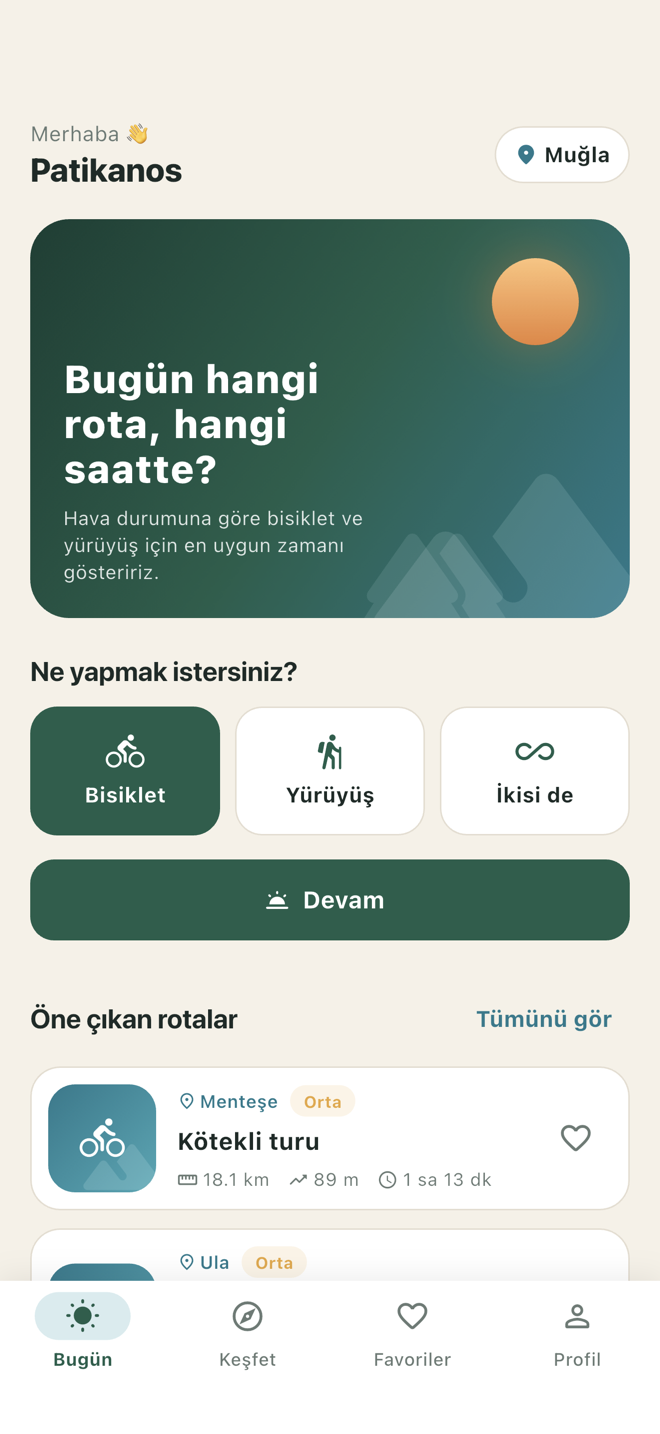
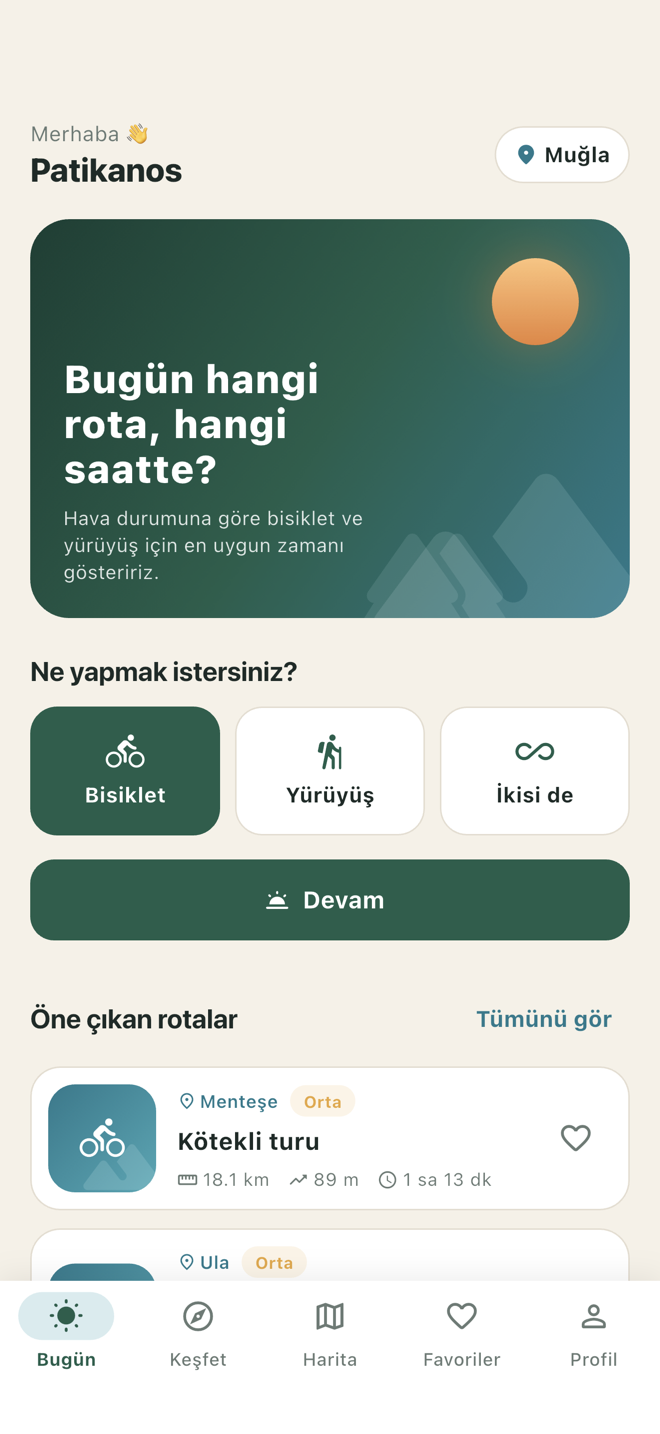
Document map tab and add map screenshot

diff --git a/integration_test/screenshots_test.dart b/integration_test/screenshots_test.dart
@@ -62,5 +62,12 @@ void main() {
     await tester.tap(find.text('Profil'));
     await tester.pumpAndSettle();
     await shot('07_profil');
+
+    await tester.tap(find.text('Harita'));
+    // Harita parçaları OpenStreetMap'ten iniyor; birkaç saniye bekle.
+    for (var i = 0; i < 20; i++) {
+      await tester.pump(const Duration(milliseconds: 250));
+    }
+    await shot('08_harita');
   });
 }

diff --git a/docs/navigation.md b/docs/navigation.md
@@ -1,15 +1,16 @@
 # Navigation Structure
 
-This document shows which screens Patikanos has and how the user moves between them. It reflects the code on `main` after PR #44; screens that are planned but not built yet are drawn with dashed borders.
+This document shows which screens Patikanos has and how the user moves between them. It reflects the code on `main` after PR #44 and #45; screens that are planned but not built yet are drawn with dashed borders.
 
 ## Tabs
 
-The app opens on `HomeScreen` (`lib/screens/home_screen.dart`), which holds a bottom navigation bar with four tabs. Tabs keep their state when you switch between them (`IndexedStack`).
+The app opens on `HomeScreen` (`lib/screens/home_screen.dart`), which holds a bottom navigation bar with five tabs. Tabs keep their state when you switch between them (`IndexedStack`).
 
 | Tab | Screen | File | Purpose |
 |---|---|---|---|
 | Bugün | `TodayScreen` | `lib/screens/today_screen.dart` | Pick an activity, see today's best time, featured routes |
 | Keşfet | `ExploreScreen` | `lib/screens/explore_screen.dart` | Search and filter all routes |
+| Harita | `MapScreen` | `lib/screens/map_screen.dart` | Start points of all routes on an OpenStreetMap map |
 | Favoriler | `FavoritesScreen` | `lib/screens/favorites_screen.dart` | Routes the user marked with ♥ |
 | Profil | `ProfileScreen` | `lib/screens/profile_screen.dart` | User info, preferences, settings |
 
@@ -23,6 +24,7 @@ flowchart TD
         direction LR
         Today["Bugün<br/>TodayScreen"]
         Explore["Keşfet<br/>ExploreScreen"]
+        Map["Harita<br/>MapScreen"]
         Favs["Favoriler<br/>FavoritesScreen"]
         Profile["Profil<br/>ProfileScreen"]
     end
@@ -41,8 +43,8 @@ flowchart TD
     Notif(["Local notification<br/>hourly + 21:00"]) -. "opens app" .-> Home
 
     Onboarding["Onboarding"]:::planned -. "first launch" .-> Home
-    Map["Map screen<br/>(flutter_map)"]:::planned -. "route on map" .-> RouteDetail
-    Explore -.-> Map
+    Map -- "tap a marker" --> PinSheet["Bottom sheet<br/>name, region, distance"]
+    PinSheet -. "open route detail" .-> RouteDetail
     Favs -. "Geçmiş" .-> History["Activity history"]:::planned
 
     classDef planned stroke-dasharray: 5 5,color:#888
@@ -61,9 +63,9 @@ flutter drive --driver=test_driver/integration_test.dart \
 |---|---|---|---|
 | ![Bugün](screenshots/01_bugun.png) | ![Weather](screenshots/02_hava_durumu.png) | ![Hourly detail](screenshots/03_saatlik_detay.png) | ![Keşfet](screenshots/04_kesfet.png) |
 
-| Route detail | Favoriler | Profil |
-|---|---|---|
-| ![Route detail](screenshots/05_rota_detayi.png) | ![Favoriler](screenshots/06_favoriler.png) | ![Profil](screenshots/07_profil.png) |
+| Route detail | Favoriler | Profil | Harita |
+|---|---|---|---|
+| ![Route detail](screenshots/05_rota_detayi.png) | ![Favoriler](screenshots/06_favoriler.png) | ![Profil](screenshots/07_profil.png) | ![Harita](screenshots/08_harita.png) |
 
 ## Actions that do not navigate
 
@@ -79,7 +81,7 @@ flutter drive --driver=test_driver/integration_test.dart \
 
 | Screen | Owner | Status |
 |---|---|---|
-| Map screen | Esma Gül Baş | Sprint 3 reads the bundled GeoJSON; route lines (`geometry`) are still empty |
+| Map → route detail | Esma Gül Baş | The marker sheet does not open `RouteDetailScreen` yet; route lines (`geometry`) are still empty |
 | Onboarding (first launch) | UI/UX | Not started; the activity picker on Bugün covers the choice for now |
 | Activity history (Geçmiş) | UI/UX | Removed from Favoriler in PR #44 until there is data to show |
 | Sign-in | Backend + UI/UX | Needed before favorites and preferences can sync to `/users/{id}/...` |
